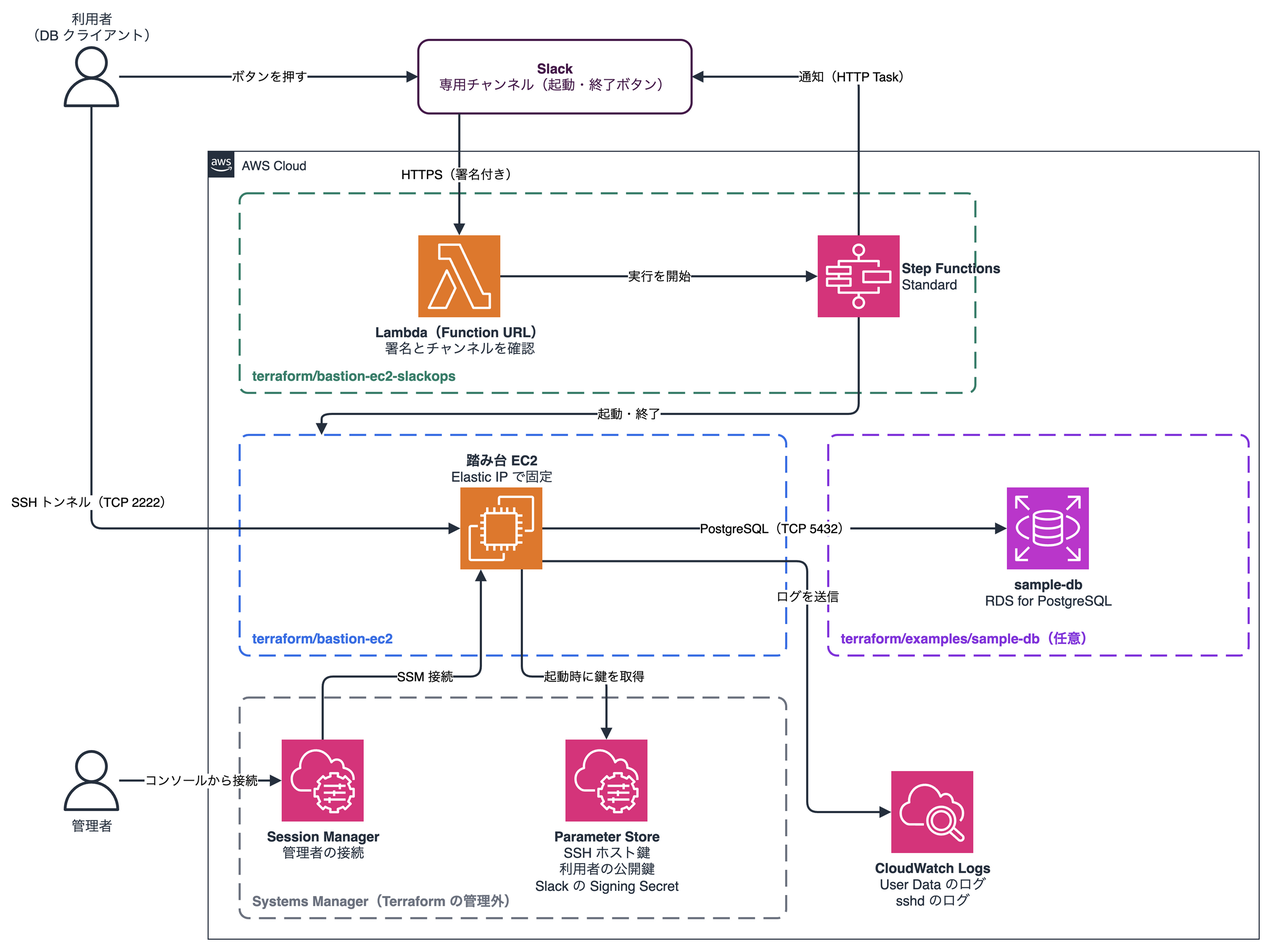
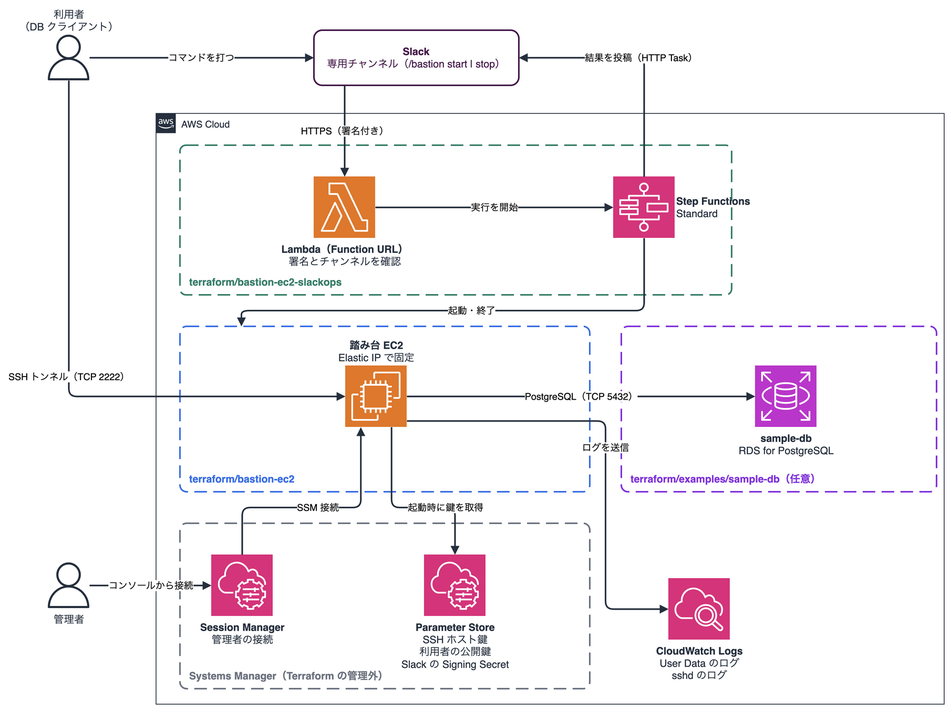
docs: README を構成図つきの形に書き直し、全体の構成図をスラッシュコマンドに合わせる
README の冒頭に構成図と構成の表を置き、Phase ごとに分かれていた手順を、
上から順に実行できる 1 本のデプロイ手順にまとめる。Slack アプリはマニフェストで作る手順にし、
使い方、後片付け、うまく動かないときの見る場所を分けて書く。
全体の構成図は、ボタンを前提にしたラベルが残っていたので、スラッシュコマンドに合わせて直す。

diff --git a/README.md b/README.md
@@ -1,25 +1,60 @@
 # ephemeral-bastion-ec2
 
-使い捨ての踏み台 EC2 を Terraform で管理します。踏み台は必要なときだけ起動し、使い終わったら Terminate します。利用者は手元の DB クライアントから SSH トンネルで、AWS 内の DB に接続します。
+使い捨ての踏み台 EC2 を Terraform で管理するリポジトリです。利用者は Slack のスラッシュコマンド `/bastion start` で踏み台を起動し、手元の DB クライアントから SSH トンネルで AWS 内の DB に接続します。使い終わったら `/bastion stop` で踏み台を Terminate します。
 
-起動と終了は、Phase 1 では管理者が AWS CLI で行い、Phase 2 では Slack のスラッシュコマンド `/bastion start` と `/bastion stop` で行います。設計の判断と理由は [docs/design.md](docs/design.md) にまとめています。
+踏み台は毎回新しく作って消すので、OS の更新などの保守が要りません。Elastic IP と SSH のホスト鍵は固定しているので、利用者の接続設定は踏み台が変わってもそのまま使えます。設計の判断と理由は [docs/design.md](docs/design.md) にまとめています。
 
-## 構成
+## アーキテクチャ
 
-| ディレクトリ | 中身 |
-|---|---|
-| `terraform/bastion-ec2` | Phase 1。踏み台の EIP、Security Group、IAM ロール、Launch Template など |
-| `terraform/bastion-ec2-slackops` | Phase 2。スラッシュコマンドを受ける Lambda、Step Functions、Slack への投稿に使う EventBridge の接続 |
-| `terraform/examples/sample-db` | 任意。DB を持たない人が試すための RDS for PostgreSQL |
-| `terraform/examples/bootstrap` | 任意。state を置く S3 バケット |
-| `scripts/setup-ssm-parameters.sh` | 踏み台の SSH ホスト鍵と、利用者の公開鍵を SSM に置く |
-| `scripts/setup-slack-secrets.sh` | Slack の Signing Secret と Bot トークンを登録する |
+![構成図](docs/architecture-overview.png)
 
-リージョンは `ap-northeast-1` に固定しています。リソース名の接頭辞は変数 `resource_prefix`（既定値は `ephemeral-bastion`）で変えられます。変えるときは、すべての構成とスクリプトで同じ値にしてください。スクリプトでは環境変数 `RESOURCE_PREFIX` で指定します。
+```text
+terraform/
+  bastion-ec2/               # 踏み台の本体（EIP、Security Group、IAM ロール、Launch Template）
+  bastion-ec2-slackops/      # Slack から踏み台を起動・終了する仕組み
+    lambda/                  # スラッシュコマンドを受ける Lambda（TypeScript）
+    templates/               # Step Functions の状態機械の定義
+  examples/
+    bootstrap/               # state を置く S3 バケット
+    sample-db/               # 検証用の RDS for PostgreSQL
+scripts/
+  setup-ssm-parameters.sh    # SSH のホスト鍵と利用者の公開鍵を SSM に置く
+  setup-slack-secrets.sh     # Slack の Signing Secret と Bot トークンを登録する
+docs/
+  design.md                  # 設計の判断と理由
+```
 
-## 準備
+Terraform は独立して apply する 4 つの構成に分けています。構成どうしは state を参照しません。
 
-Terraform、Node.js、pnpm のバージョンは `mise.toml` で固定しています。リポジトリの直下で、次を実行します。
+| 構成 | 主なリソース | 役割 |
+|---|---|---|
+| `bastion-ec2` | EIP、Security Group、IAM ロール、Launch Template、CloudWatch Logs | 踏み台の本体。踏み台は Launch Template から起動し、初期化が終わると自分で EIP を付ける |
+| `bastion-ec2-slackops` | Lambda（Function URL）、Step Functions、EventBridge の接続、IAM ロール | Slack のスラッシュコマンドで、踏み台を起動・終了する。`bastion-ec2` のリソースは、名前とタグで引く |
+| `examples/sample-db`（任意） | RDS for PostgreSQL、DB Subnet Group、Security Group | DB を持たない人が試すための DB |
+| `examples/bootstrap`（任意） | S3 バケット | state の保存先 |
+
+リージョンは `ap-northeast-1` に固定しています。リソース名の接頭辞は変数 `resource_prefix`（既定値は `ephemeral-bastion`）で変えられます。変えるときは、すべての構成で同じ値にし、スクリプトでは環境変数 `RESOURCE_PREFIX` で同じ値を指定してください。
+
+### Slack から起動するときの流れ
+
+![Slack から起動するときの流れ](docs/architecture-phase2.png)
+
+Lambda は Slack の署名と、専用チャンネルからのコマンドかを確かめ、Step Functions の実行を始めます。EC2 の起動・終了と Slack への投稿は、Step Functions が直接行います。公開される Lambda には EC2 を操作する権限を持たせていません。
+
+## 仕組みのデプロイ
+
+### 前提
+
+- AWS 上に、次のものがあること
+  - VPC と、踏み台を置くパブリックサブネット
+  - 接続先の DB。なければ `sample-db` で作れる。その場合は、異なる AZ のプライベートサブネットが 2 つ以上要る
+- 次のものが手元に入っていること
+  - [AWS CLI](https://docs.aws.amazon.com/ja_jp/cli/latest/userguide/getting-started-install.html)
+  - [mise](https://mise.jdx.dev/)。Terraform、Node.js、pnpm のバージョンを `mise.toml` で固定している
+- Slack のワークスペースで、アプリを作れること
+- （任意）AI エージェントで作業する場合は、[Agent Toolkit for AWS](https://docs.aws.amazon.com/agent-toolkit/latest/userguide/what-is-agent-toolkit.html) の導入を勧める
+
+リポジトリの直下で、ツールを入れます。
 
 ```bash
 mise install
@@ -27,31 +62,21 @@ mise install
 
 AWS の認証情報は環境変数かプロファイルで設定しておきます。以下のコマンドは、どれもその認証情報で実行します。
 
-### Claude Code から AWS を操作する
-
-Claude Code は、Agent Toolkit for AWS の `aws-core` プラグインに同梱の AWS MCP を通して AWS を操作します。同梱の AWS MCP は、`default` プロファイルの認証情報で動きます。
-
-同梱の AWS MCP のエンドポイントは us-east-1 にあり、`default` プロファイルのリージョンを、リクエストの署名に使います。`default` のリージョンを `us-east-1` 以外にすると、リクエストが 401 で拒否されます。操作するリソースのリージョンは、呼び出しごとに指定するので、`default` のリージョンとは関係ありません。
-
-`default` が IAM Identity Center（SSO）のプロファイルなら、トークンの期限が切れると AWS を操作できなくなります。`aws sso login` でログインし直してから、Claude Code の `/mcp` で AWS MCP を再接続してください。
-
-### state の保存先
+### 1. state の保存先を用意する
 
 state は S3 バケット `tfstate-<アカウント ID>` に、構成ごとのキーで置きます。バケットは `terraform/examples/bootstrap` で作ります。
 
-各構成では `backend.hcl.example` を `backend.hcl` にコピーし、`<アカウント ID>` を書き換えてから、次のように初期化します。`backend.hcl` は `.gitignore` に入っているので、アカウント ID はリポジトリに残りません。
+各構成では `backend.hcl.example` を `backend.hcl` にコピーし、`<アカウント ID>` を書き換えてから初期化します。`backend.hcl` は `.gitignore` に入っているので、アカウント ID はリポジトリに残りません。
 
 ```bash
 terraform init -backend-config=backend.hcl
 ```
 
-## Phase 1: bastion-ec2
+### 2. 接続先の DB を用意する
 
-### 1. 接続先の DB を用意する
+手持ちの DB を使うなら、その DB のホスト名、ポート、Security Group の ID を控えます。
 
-手持ちの DB を使うなら、その DB のホスト名、ポート、Security Group の ID を控えます。DB がなければ、`terraform/examples/sample-db` で検証用の RDS を作れます。`terraform.tfvars.example` を `terraform.tfvars` にコピーして、VPC とプライベートサブネットの ID を書きます。
-
-マスターパスワードは write-only の引数で渡すので、state には残りません。シェルの履歴にも残らないよう、画面に表示せずに環境変数へ読み込んでから apply します。
+DB がなければ、`sample-db` で検証用の RDS を作ります。`terraform.tfvars.example` を `terraform.tfvars` にコピーして、VPC とプライベートサブネットの ID を書きます。マスターパスワードは write-only の引数で渡すので、state には残りません。シェルの履歴にも残らないよう、画面に表示せずに環境変数へ読み込んでから apply します。
 
 ```bash
 cd terraform/examples/sample-db
@@ -60,9 +85,9 @@ terraform init -backend-config=backend.hcl
 terraform apply
 ```
 
-出力の `db_host`、`db_port`、`db_security_group_id` を、次の手順で `bastion-ec2` の変数に使います。
+出力の `db_host`、`db_port`、`db_security_group_id` を、`bastion-ec2` の変数に使います。
 
-### 2. SSH の鍵を SSM に置く
+### 3. SSH の鍵を SSM に置く
 
 利用者の公開鍵のファイルを渡して、スクリプトを実行します。SSH のホスト鍵がなければ生成して置き、利用者の公開鍵は上書きで置きます。利用者を足したり外したりするときも、同じスクリプトを実行し直します。Terraform を apply し直す必要はありません。
 
@@ -70,7 +95,7 @@ terraform apply
 scripts/setup-ssm-parameters.sh alice.pub bob.pub
 ```
 
-### 3. Terraform で作る
+### 4. bastion-ec2 を作る
 
 `terraform/bastion-ec2/terraform.tfvars.example` を `terraform.tfvars` にコピーして、値を書き換えます。`allowed_cidrs` には、SSH を許可する接続元の IP を書きます。個人の IP が入るので、`terraform.tfvars` は `.gitignore` に入れてあります。
 
@@ -81,11 +106,105 @@ terraform plan
 terraform apply
 ```
 
-出力の `launch_template_id` は起動に、`eip_public_ip` は利用者の接続先に使います。
+出力の `eip_public_ip` が利用者の接続先になります。
 
-### 4. 起動と終了（管理者）
+### 5. Slack の専用チャンネルを用意する
 
-起動は Launch Template を指定して、`run-instances` を 1 回実行します。初期化が終わると、踏み台が自分で EIP を付けます。初期化に失敗した踏み台は、EIP を付けずに自分で Terminate します。
+踏み台を操作する専用のパブリックチャンネルを作ります。チャンネル名を押して開く「チャンネル詳細」の一番下にある、チャンネル ID（`C` から始まる値）を控えます。ほかのチャンネルで打った `/bastion` には反応しません。
+
+### 6. bastion-ec2-slackops を作る
+
+Terraform はビルドをしないので、先に Lambda を JavaScript の 1 ファイルにビルドします。ビルド、テスト、Lint、フォーマットは Vite+ で行います。
+
+```bash
+cd terraform/bastion-ec2-slackops/lambda
+pnpm install
+pnpm run check
+pnpm run typecheck
+pnpm test
+pnpm run build
+```
+
+`dist/index.mjs` ができます。`terraform.tfvars.example` を `terraform.tfvars` にコピーし、`slack_channel_id` に、手順 5 で控えたチャンネル ID を書いてから apply します。
+
+```bash
+cd terraform/bastion-ec2-slackops
+terraform init -backend-config=backend.hcl
+terraform plan
+terraform apply
+```
+
+出力の `function_url` を、次の手順で Slack アプリに設定します。
+
+```bash
+terraform output -raw function_url
+```
+
+### 7. Slack アプリを作る
+
+[Slack の API サイト](https://api.slack.com/apps)で「Create New App」を押し、「Paste a manifest」を選びます。ワークスペースを選んでから、YAML の形式で次を貼り付けます。`<function_url>` は、手順 6 で表示した URL に置き換えてください。
+
+```yaml
+display_information:
+  name: bastion
+features:
+  bot_user:
+    display_name: bastion
+    always_online: false
+  slash_commands:
+    - command: /bastion
+      url: <function_url>
+      description: 踏み台を起動・終了する
+      usage_hint: start | stop
+      should_escape: false
+oauth_config:
+  scopes:
+    bot:
+      - commands
+      - chat:write
+settings:
+  org_deploy_enabled: false
+  socket_mode_enabled: false
+  token_rotation_enabled: false
+```
+
+アプリを作ったら、次の 2 つを行います。
+
+1. 左のメニューの「Install App」で、ワークスペースにインストールする
+2. 専用チャンネルで `/invite @bastion` を打って、アプリを招待する。招待していないチャンネルには投稿できない
+
+### 8. Slack の秘密情報を登録する
+
+スクリプトを実行し、2 つの値を貼り付けます。入力した値は画面に表示されず、シェルの履歴にも残りません。
+
+- Signing Secret: 「Basic Information」の「App Credentials」にある値
+- Bot トークン: 「Install App」に表示される「Bot User OAuth Token」（`xoxb-` から始まる値）
+
+```bash
+scripts/setup-slack-secrets.sh
+```
+
+空のまま Enter を押した項目は変わらないので、片方だけを登録し直すこともできます。Bot トークンは、Terraform がダミーの値で作った EventBridge の接続に登録します。Terraform はこの値の変更を無視するので、apply し直しても、本物のトークンは上書きされません。
+
+## 使い方
+
+### 踏み台を起動・終了する
+
+専用チャンネルで `/bastion start` を打ちます。チャンネルに受け付けの投稿が 1 件だけ出て、経過と結果はそのスレッドに入ります。
+
+```text
+/bastion start を受け付けました
+• 実行した人: @user
+  └ 踏み台サーバーを起動しています
+    • サーバー ID: i-0123456789abcdef0
+    準備ができるまで 1〜2 分かかります。
+  └ 準備ができました
+    接続できます。
+```
+
+使い終わったら `/bastion stop` を打ちます。スレッドに「踏み台サーバーを終了しています」と「終了しました」が入ります。すでに起動している、起動中の踏み台がない、のような場面では、その旨をスレッドに返して終わります。
+
+管理者は AWS CLI でも起動・終了できます。起動は `bastion-ec2` の出力の `launch_template_id` を指定して、`run-instances` を 1 回実行します。
 
 ```bash
 aws ec2 run-instances --region ap-northeast-1 --launch-template LaunchTemplateId=<launch_template_id>
@@ -103,33 +222,27 @@ aws ec2 describe-instances --region ap-northeast-1 \
 aws ec2 terminate-instances --region ap-northeast-1 --instance-ids <インスタンス ID>
 ```
 
-失敗の原因は CloudWatch Logs のロググループ（出力の `log_group_name`）で調べられます。User Data の実行ログと sshd のログが、インスタンス ID ごとに残ります。
+### DB に接続する
 
-### 5. 利用者の接続
-
-利用者はユーザー `tunnel` と自分の秘密鍵で、踏み台の EIP にポート `2222`（変数 `ssh_port`）で接続し、DB へのポートフォワードだけを使います。シェルには入れません。転送先は `bastion-ec2` の変数 `db_host` と同じ名前にしてください。sshd は転送先を文字列のまま比べるので、IP アドレスや別名では拒否されます。
-
-ssh コマンドなら、次のようになります。DB クライアントの SSH トンネルの設定にも、同じ値を入れます。
+利用者はユーザー `tunnel` と自分の秘密鍵で、踏み台の EIP にポート `2222`（変数 `ssh_port`）で接続し、DB へのポートフォワードだけを使います。シェルには入れません。DB クライアントの SSH トンネルの設定にも、次の ssh コマンドと同じ値を入れます。
 
 ```bash
 ssh -N -L 15432:<db_host>:5432 -p 2222 -i <秘密鍵> tunnel@<eip_public_ip>
 ```
 
-この例では DB クライアントから `localhost:15432` に接続します。`-L` の指定で、手元の 15432 番への接続が、SSH の接続の中を通って踏み台まで運ばれ、踏み台から DB の 5432 番に届きます。DB はプライベートサブネットにあり、踏み台からの接続だけを受け付けるので、手元から直接はつなげません。手元の番号は、空いていれば何番でも構いません。
+この例では DB クライアントから `localhost:15432` に接続します。`-L` の指定で、手元の 15432 番への接続が SSH の接続の中を通って踏み台まで運ばれ、踏み台から DB の 5432 番に届きます。DB はプライベートサブネットにあり、踏み台からの接続だけを受け付けるので、手元から直接はつなげません。手元の番号は、空いていれば何番でも構いません。
 
-### 6. DB に接続できるかを確かめる
+転送先は `bastion-ec2` の変数 `db_host` と同じ名前にしてください。sshd は転送先を文字列のまま比べるので、IP アドレスや別名では拒否されます。
 
-踏み台の準備ができたあと、手元からトンネルを通って DB にログインできるかを確かめます。psql は、Homebrew の libpq に入っています。
+### DB に接続できるかを確かめる
+
+psql で、トンネルを通って DB にログインできるかを確かめます。psql は Homebrew の libpq に入っています。
 
 ```bash
 brew install libpq
 ```
 
-ターミナルを 2 つ使います。1 つ目のターミナルでトンネルを張ります。何も表示されずに止まったままになれば、トンネルが張れています。
-
-```bash
-ssh -N -L 15432:<db_host>:5432 -p 2222 -i <秘密鍵> tunnel@<eip_public_ip>
-```
+ターミナルを 2 つ使います。1 つ目のターミナルで、前の節の ssh コマンドを実行してトンネルを張ります。何も表示されずに止まったままになれば、トンネルが張れています。
 
 2 つ目のターミナルで、psql からログインします。パスワードを聞かれたら、DB のパスワード（`sample-db` なら、作ったときのマスターパスワード）を入力します。
 
@@ -149,71 +262,40 @@ $(brew --prefix libpq)/bin/psql -h localhost -p 15432 -U postgres -d postgres -c
 | psql がつながらず、1 つ目のターミナルに `open failed: administratively prohibited` | ssh の転送先が `db_host` の名前と一致せず、踏み台が転送を拒否した |
 | psql で `password authentication failed` | DB のユーザー名かパスワードが違う |
 
-## Phase 2: bastion-ec2-slackops
+## 後片付け
 
-Phase 1 の `bastion-ec2` を作ってから進めます。`bastion-ec2-slackops` は、`bastion-ec2` の Launch Template、EIP、踏み台の IAM ロールを、名前とタグで引きます。
-
-### 1. Slack アプリを作り、専用チャンネルを用意する
-
-1. Slack の API サイト（api.slack.com/apps）で、ワークスペースに新しいアプリを作る
-2. OAuth & Permissions の Bot Token Scopes に `commands` と `chat:write` を足し、ワークスペースにインストールする
-3. 専用のパブリックチャンネルを作り、アプリを招待する
-4. チャンネルの詳細の下にある、チャンネル ID（`C` から始まる値）を控える
-
-Bot トークン（`xoxb-` から始まる値）と、Basic Information の Signing Secret は、手順 4 で登録します。メモに書き写さないでください。
-
-### 2. Lambda をビルドする
-
-Terraform はビルドをしません。apply の前に、Lambda を JavaScript の 1 ファイルにビルドしておきます。ビルド、テスト、Lint、フォーマットは Vite+ で行います。
-
-```bash
-cd terraform/bastion-ec2-slackops/lambda
-pnpm install
-pnpm run check
-pnpm run typecheck
-pnpm test
-pnpm run build
-```
-
-`dist/index.mjs` ができます。Terraform はこれを zip にしてデプロイします。フォーマットと Lint の指摘は、`pnpm run fix` で直せるものは直せます。
-
-### 3. Terraform で作る
-
-`terraform.tfvars.example` を `terraform.tfvars` にコピーし、`slack_channel_id` に、手順 1 で控えたチャンネル ID を書きます。
+踏み台が起動していれば、先に `/bastion stop` で終了しておきます。そのあと、作った順の逆で destroy します。`bastion-ec2-slackops` は `bastion-ec2` のリソースを名前で引くので、先に消します。
 
 ```bash
 cd terraform/bastion-ec2-slackops
-terraform init -backend-config=backend.hcl
-terraform plan
-terraform apply
+terraform destroy
 ```
-
-### 4. Slack の秘密情報を登録する
-
-スクリプトを実行し、Signing Secret と Bot トークンを入力します。入力した値は画面に表示されず、シェルの履歴にも残りません。空のまま Enter を押した項目は変わらないので、片方だけを登録し直すこともできます。
 
 ```bash
-scripts/setup-slack-secrets.sh
+cd terraform/bastion-ec2
+terraform destroy
 ```
 
-Bot トークンは、Terraform がダミーの値で作った EventBridge の接続に登録します。Terraform はこの値の変更を無視するので、apply し直しても、本物のトークンは上書きされません。
+`sample-db` を作った場合は、最後に消します。
 
-### 5. スラッシュコマンドを登録する
+```bash
+cd terraform/examples/sample-db
+terraform destroy
+```
 
-Slack アプリの Slash Commands で、コマンド `/bastion` を作ります。Request URL には `terraform output -raw function_url` の値を貼ります。使い方のヒントには `start | stop` と書いておくと、利用者が迷いません。
+Terraform の外で作った SSM パラメータは、destroy では消えません。要らなくなったら、`/<resource_prefix>/host-key`、`/<resource_prefix>/user-public-keys`、`/<resource_prefix>/slack-signing-secret` を消してください。Slack アプリも Slack の API サイトから削除します。
 
-### 6. 試す
+## 補足
 
-専用チャンネルで `/bastion start` を打ちます。チャンネルに「`/bastion start` を受け付けました」の投稿が出て、そのスレッドに「踏み台サーバーを起動しています」と、1〜2 分後に「準備ができました」が入ります。準備ができたら、Phase 1 の「DB に接続できるかを確かめる」の手順で、DB まで届くかを確かめます。使い終わったら `/bastion stop` を打ちます。
+### うまく動かないとき
 
-うまく動かないときは、次の場所を見ます。
-
-- Lambda のログ: CloudWatch Logs の `/aws/lambda/<resource_prefix>-slack-command`
-- 状態機械の実行の履歴: Step Functions のコンソールで、出力の `state_machine_arn` の状態機械を開く。失敗した実行には、止まった状態の名前とエラーの内容が残る
+- スレッドに「起動できませんでした」「終了できませんでした」と出たら、Step Functions のコンソールで、`bastion-ec2-slackops` の出力の `state_machine_arn` の状態機械を開く。失敗した実行には、止まった状態の名前とエラーの内容が残る
+- コマンドを打っても何も起きないときは、Lambda のログ（CloudWatch Logs の `/aws/lambda/<resource_prefix>-slack-command`）を見る。署名の確認に失敗した理由などが残る
+- 踏み台の初期化に失敗したときは、`bastion-ec2` の出力の `log_group_name` のロググループを見る。User Data の実行ログと sshd のログが、インスタンス ID ごとに残る
 
 ### Lambda のコードを変えたとき
 
-ビルドしてから plan と apply をします。ビルドを忘れると、古いコードのまま plan されます。
+ビルドしてから plan と apply をします。ビルドを忘れると、古いコードのまま plan されます。フォーマットと Lint の指摘は、`pnpm run fix` で直せるものは直せます。
 
 ```bash
 cd terraform/bastion-ec2-slackops/lambda
@@ -230,18 +312,10 @@ terraform apply
 
 Powertools for AWS Lambda は、AWS が公開している Lambda レイヤーで読み込みます。バージョンを上げるときは、`main.tf` の `powertools_layer_arn` のレイヤーの番号と、`lambda/package.json` の `@aws-lambda-powertools/*` のバージョンを一緒に上げます。
 
-## 片付け
+### Claude Code から AWS を操作するとき
 
-作った順の逆で destroy します。`bastion-ec2-slackops` は `bastion-ec2` のリソースを名前で引くので、先に消します。踏み台が起動していれば、先に終了しておきます。
+Claude Code は Agent Toolkit for AWS の `aws-core` プラグインに同梱の AWS MCP を通して AWS を操作します。同梱の AWS MCP は `default` プロファイルの認証情報で動きます。
 
-```bash
-cd terraform/bastion-ec2-slackops
-terraform destroy
-```
+同梱の AWS MCP のエンドポイントは us-east-1 にあり、`default` プロファイルのリージョンを、リクエストの署名に使います。`default` のリージョンを `us-east-1` 以外にすると、リクエストが 401 で拒否されます。操作するリソースのリージョンは呼び出しごとに指定するので、`default` のリージョンとは関係ありません。
 
-```bash
-cd terraform/bastion-ec2
-terraform destroy
-```
-
-Terraform の外で作った SSM パラメータは、destroy では消えません。要らなくなったら、`/<resource_prefix>/host-key`、`/<resource_prefix>/user-public-keys`、`/<resource_prefix>/slack-signing-secret` を消してください。
+`default` が IAM Identity Center（SSO）のプロファイルなら、トークンの期限が切れると AWS を操作できなくなります。`aws sso login` でログインし直してから、Claude Code の `/mcp` で AWS MCP を再接続してください。
